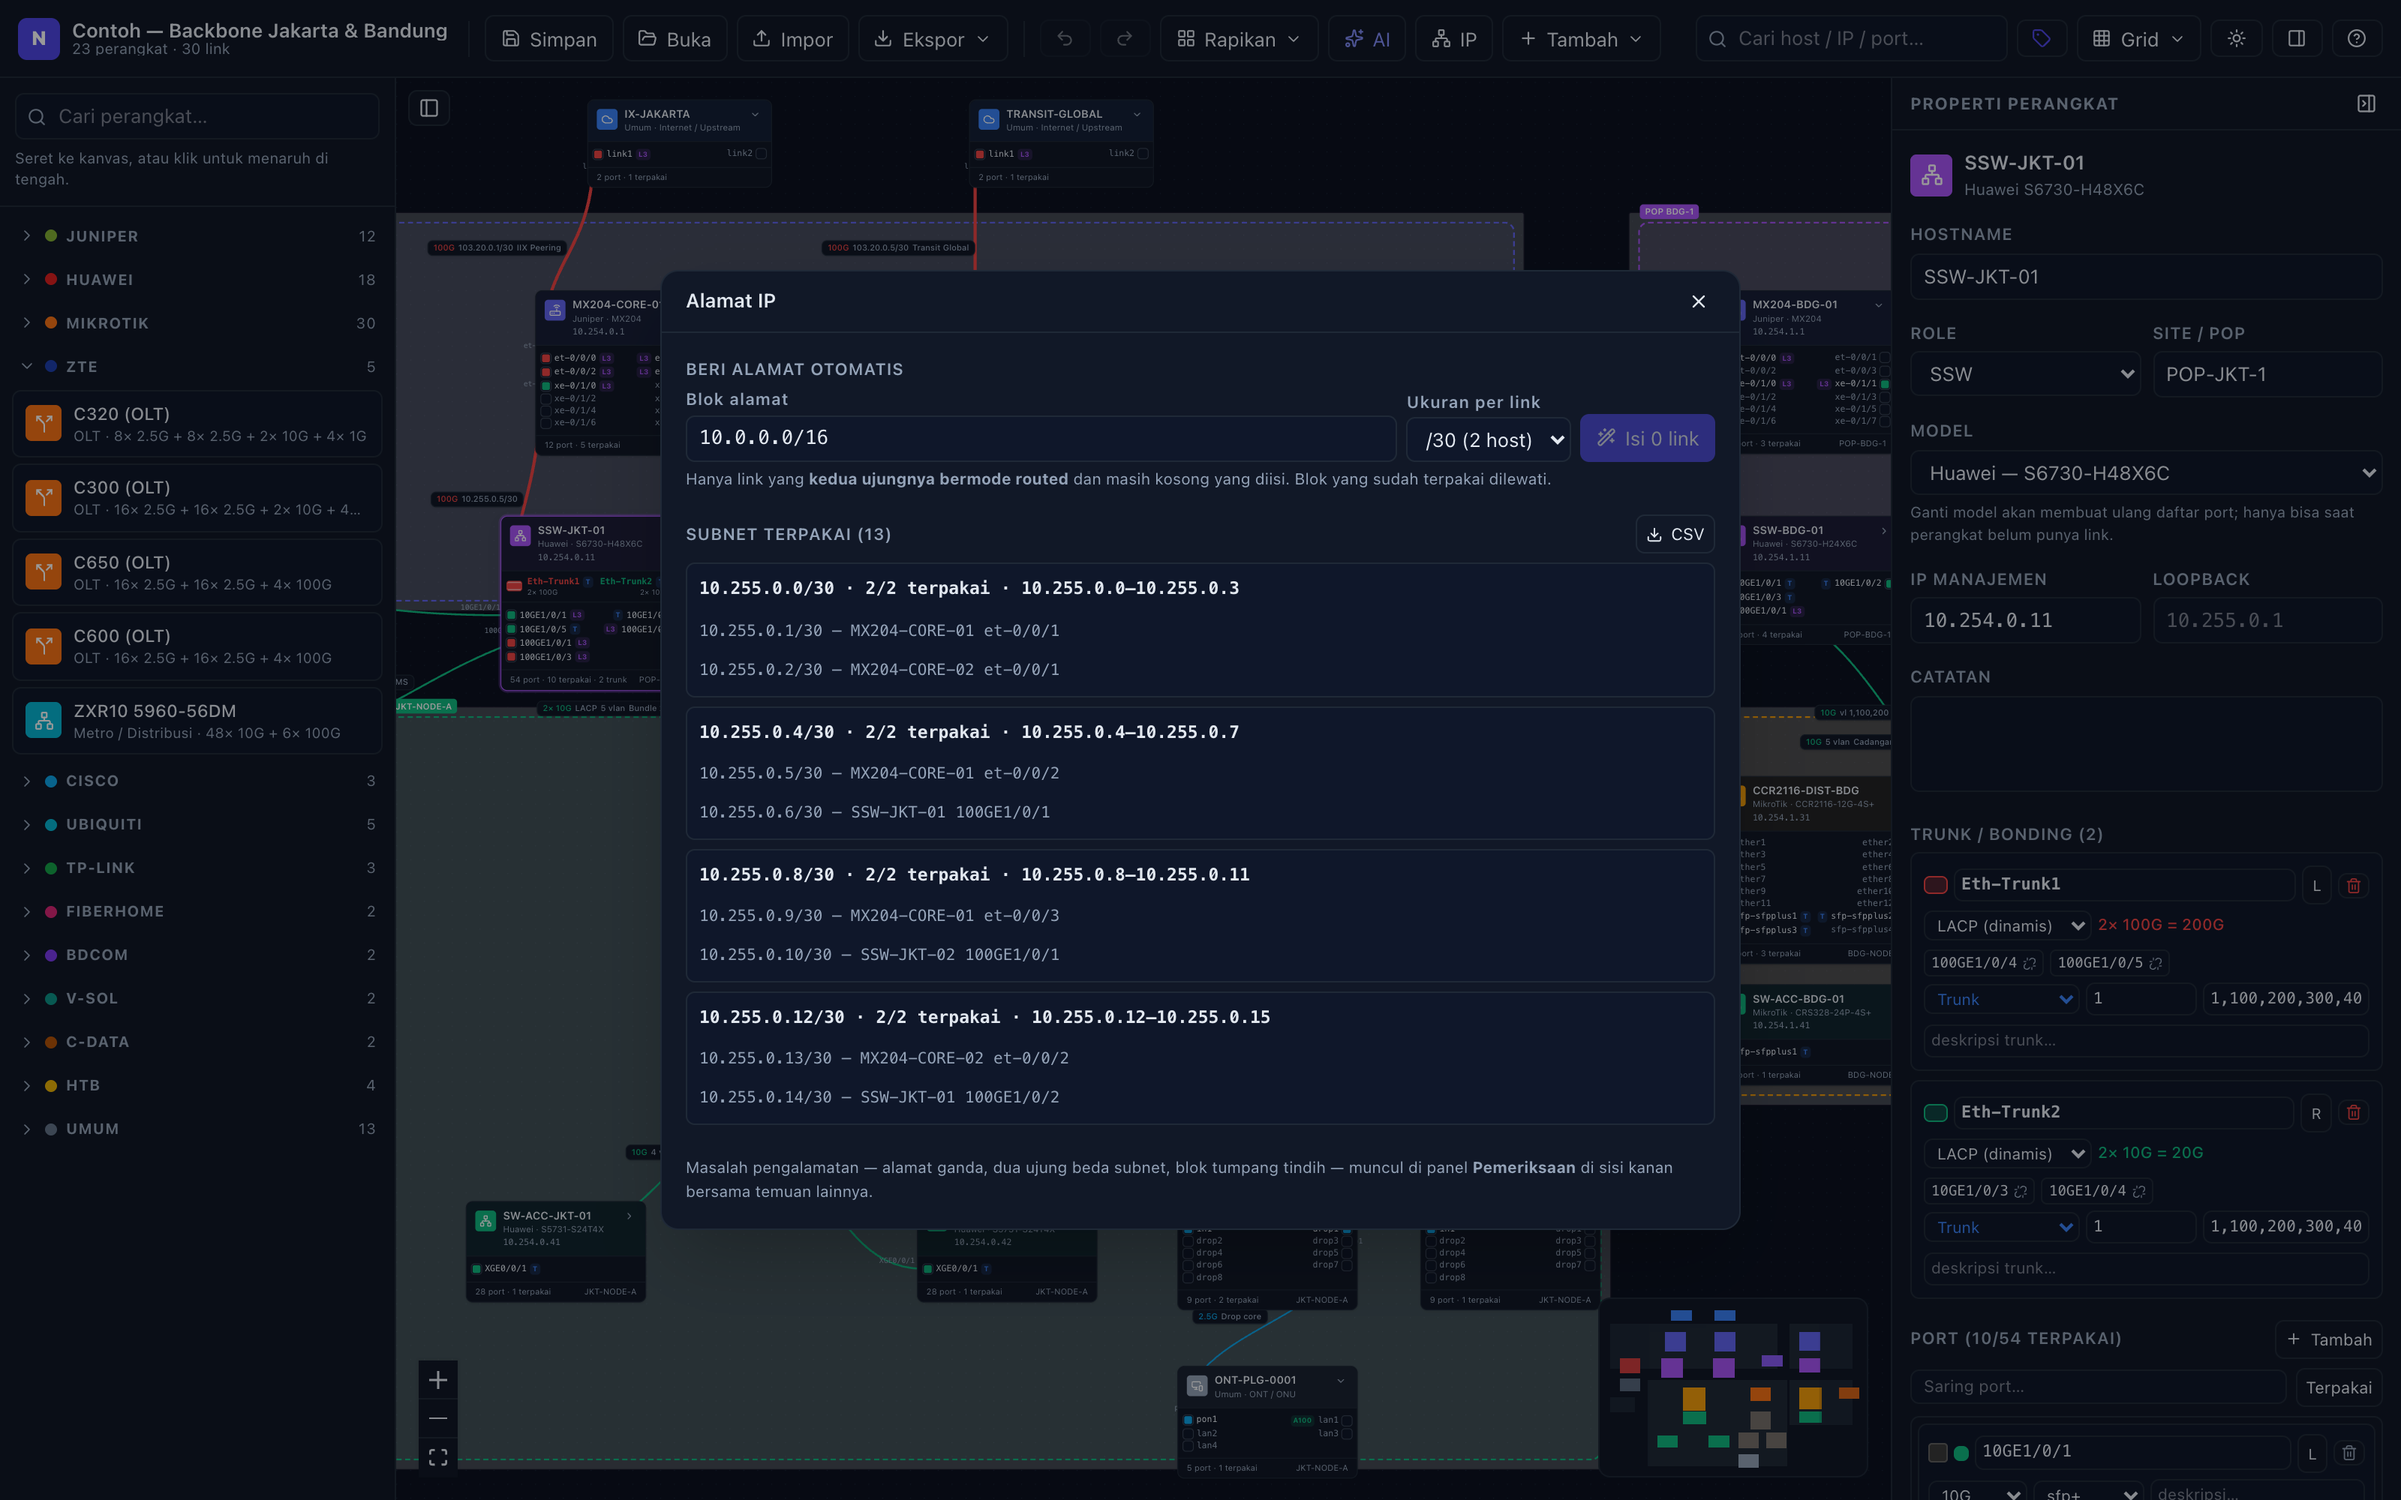
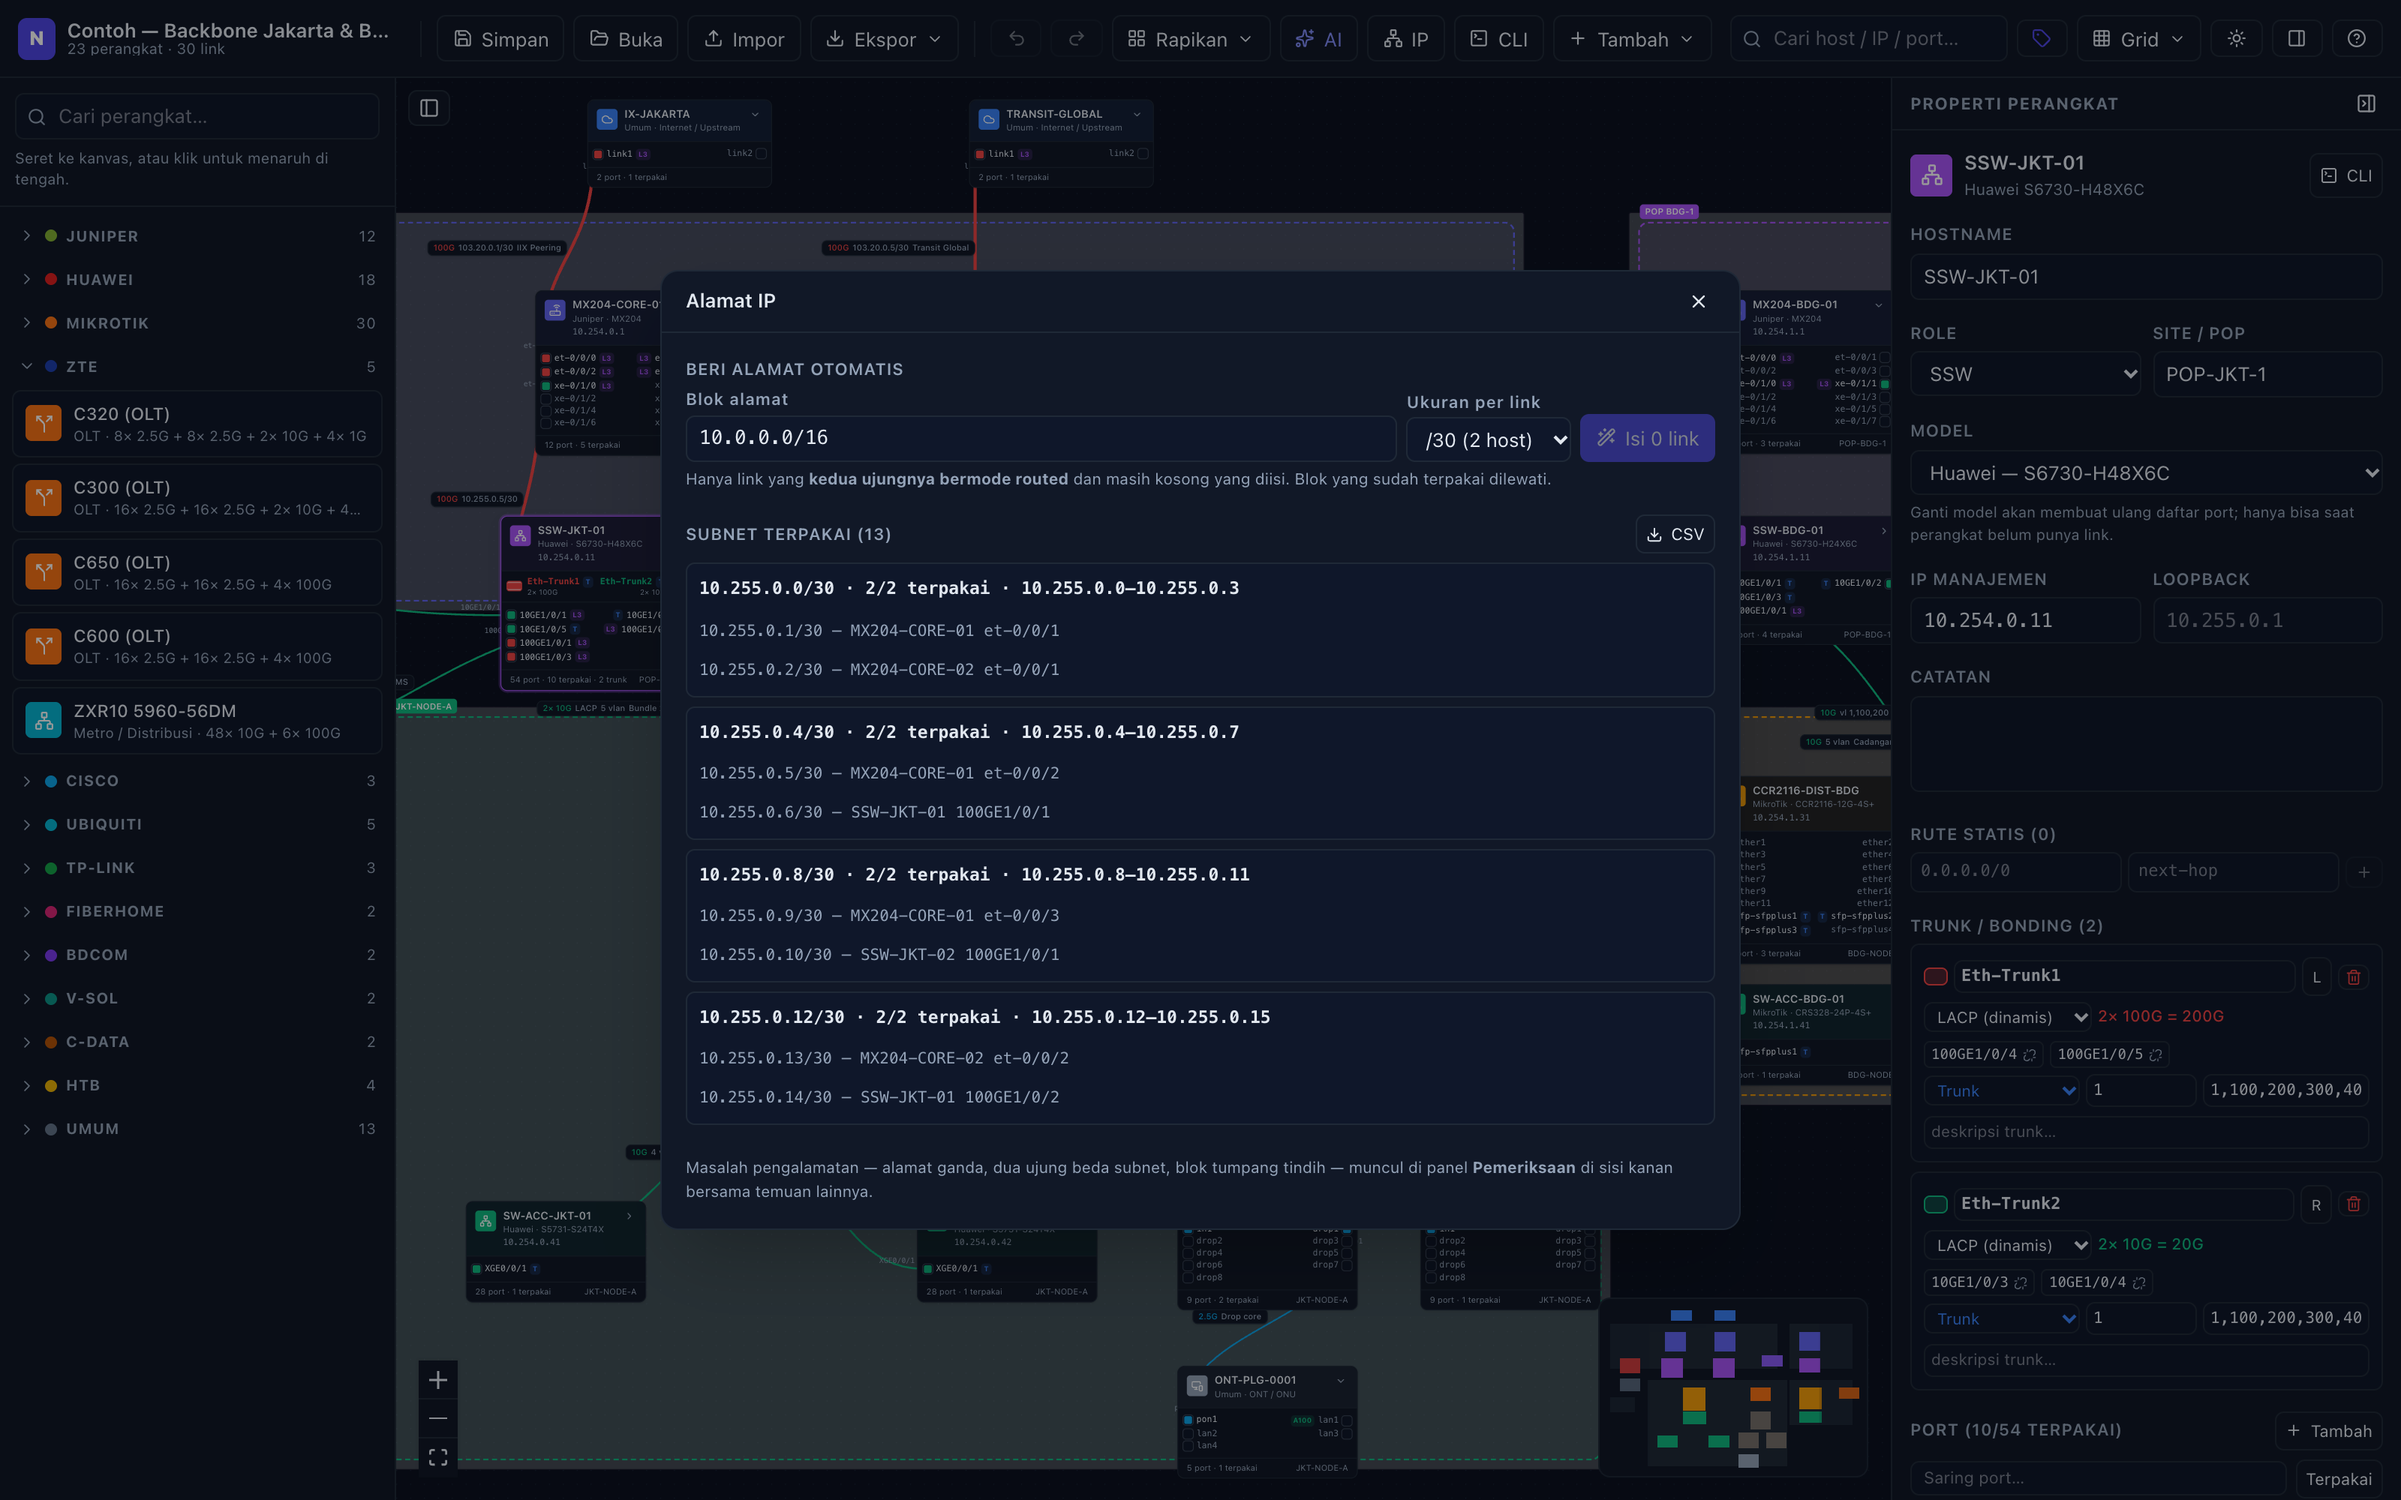
README: tangkapan layar dan panduan CLI, plus yang terlewat
Bagian CLI kini punya gambar sesi sungguhan (07-cli): rute statis dipasang
lewat VRP di SSW-JKT-01 dan Junos di MX204-BDG-01, lalu tracert dan ping
lintas dua hop berhasil. Ditambah panduan "Coba sendiri" empat langkah di
topologi contoh — ping tetangga, gagal karena tidak ada rute, rute pergi,
lalu rute pulang — yang perintah dan hasilnya sudah dijalankan apa adanya.

Yang sebelumnya belum tercatat: badge CI dan penjelasan bahwa lint, test,
dan build berjalan di setiap push; Port-channel untuk Cisco di tabel
penamaan bonding; tombol shutdown di tabel port; langkah membuka CLI di
"Cara pakai"; dan status shutdown di ekspor CSV.

Gambar 01–05 dibuat ulang karena toolbar dan panel kanan kini punya tombol
CLI dan bagian rute statis. Gambar asisten AI dibiarkan: skrip menjalankan
AI sungguhan, yang mengirim topologi ke endpoint di .env. Untuk itu skrip
mendapat opsi NETTOPO_SKIP_AI=1.

diff --git a/README.md b/README.md
@@ -1,5 +1,6 @@
 # NetTopo — Editor Topologi Jaringan
 
+[![CI](https://github.com/Masamune21-dev/nettopo/actions/workflows/ci.yml/badge.svg)](https://github.com/Masamune21-dev/nettopo/actions/workflows/ci.yml)
 [![Lisensi: MIT](https://img.shields.io/badge/Lisensi-MIT-blue.svg)](LICENSE)
 
 Aplikasi web untuk menggambar topologi jaringan sampai level **port-ke-port**,
@@ -7,7 +8,7 @@ dengan katalog perangkat yang sesuai jaringan ISP di Indonesia: **Juniper MX,
 switch & SSW Huawei, MikroTik CRS dan CCR**.
 
 Mendukung **link aggregation / bonding** — Eth-Trunk (Huawei), ae (Juniper),
-bond (MikroTik) — lengkap dengan daftar port anggotanya, serta **VLAN dan
+bond (MikroTik), Port-channel (Cisco) — lengkap dengan daftar port anggotanya, serta **VLAN dan
 link-type per interface** (access / trunk / hybrid / routed) seperti di
 perangkat aslinya.
 
@@ -50,6 +51,10 @@ memindahkannya antar komputer.
 | `npm test` | Menjalankan unit test |
 | `npm run test:watch` | Unit test mode watch |
 | `npm run lint` | Pemeriksaan gaya kode |
+
+Ketiga pemeriksaan — `npm run lint`, `npm test`, dan `npm run build` — juga
+dijalankan GitHub Actions di setiap push ke `main` dan setiap pull request
+([`.github/workflows/ci.yml`](.github/workflows/ci.yml)).
 
 Hasil `npm run build` berupa berkas statis di `dist/`, jadi bisa ditaruh di
 web server mana pun (nginx, Apache, GitHub Pages) tanpa Node.js di sisi server.
@@ -110,7 +115,9 @@ ada aturan pemeriksaan baru yang membuatnya gagal, itu ketahuan langsung.
 7. **Ekspor** ke PNG/SVG untuk laporan, JSON untuk cadangan, atau CSV untuk
    rekap. Ekspor CSV menghasilkan tiga berkas: `-perangkat.csv`, `-link.csv`,
    dan `-interface.csv` — yang terakhir berisi link-type, PVID, VLAN
-   tagged/untagged, dan IP setiap interface.
+   tagged/untagged, IP, dan status shutdown setiap interface.
+8. **Klik ganda perangkat** untuk membuka CLI-nya, lalu atur dan uji jaringan
+   dengan perintah aslinya — lihat [CLI perangkat](#cli-perangkat-seperti-packet-tracer).
 
 ### Menggeser kabel
 
@@ -201,6 +208,9 @@ sendiri di panel kanan:
   interface-nya — jadi tidak perlu mengetik dua kali.
 - **Isi massal:** centang banyak port sekaligus, klik **VLAN**, isi sekali,
   lalu **Terapkan** — praktis untuk switch 48 port.
+- Tombol **⏻** di tiap baris port mematikannya (`shutdown`). Port yang mati
+  dicoret merah di node, dan kabelnya digambar putus-putus berlabel
+  **shutdown** — sama seperti bila dimatikan lewat CLI.
 - Pemeriksaan otomatis menandai: daftar VLAN yang tidak sah, port access yang
   VLAN-nya kosong, PVID di luar daftar tagged, link-type berbeda di dua ujung
   link, dan VLAN yang hanya ada di satu sisi.
@@ -216,6 +226,7 @@ sendiri di panel kanan:
    | Huawei (VRP) | `Eth-Trunk1`, `Eth-Trunk2`, … |
    | Juniper (Junos) | `ae0`, `ae1`, … |
    | MikroTik (RouterOS) | `bond1`, `bond2`, … |
+   | Cisco (IOS) | `Port-channel1`, `Port-channel2`, … |
    | Lainnya | `lag1`, `lag2`, … |
 
 3. Di kanvas, trunk muncul sebagai **satu interface logis** (kotak lebar
@@ -251,7 +262,10 @@ seleksi kotak, drag tengah/kanan untuk menggeser.
 Setiap perangkat aktif punya konsol CLI sendiri. **Klik ganda perangkat** di
 kanvas (atau klik kanan → *Buka CLI*, atau tombol **CLI** di toolbar dan panel
 kanan), dan konsolnya terbuka di bawah kanvas — satu tab per perangkat,
-seperti jendela CLI di Cisco Packet Tracer.
+seperti jendela CLI di Cisco Packet Tracer. Tinggi konsol bisa diatur dengan
+menyeret tepi atasnya.
+
+![Konsol CLI: rute statis dipasang lewat VRP dan Junos, lalu tracert dan ping lintas dua hop](docs/img/07-cli.png)
 
 Dialeknya mengikuti OS perangkat:
 
@@ -275,6 +289,41 @@ Error: The interface is a Layer 2 port and cannot be assigned an IP address.
 [SW-ACC-JKT-01-GigabitEthernet0/0/10]undo portswitch
 [SW-ACC-JKT-01-GigabitEthernet0/0/10]ip address 10.9.0.1 30
 ```
+
+### Coba sendiri di topologi contoh
+
+Ping lintas dua hop — dari SSW-JKT-01 ke MX204-BDG-01 lewat MX204-CORE-01 —
+memperlihatkan cara kerja simulasinya dalam empat langkah:
+
+1. Buka CLI **SSW-JKT-01** dan jalankan `ping 10.255.0.5`. Itu tetangga satu
+   /30 (MX204-CORE-01), jadi langsung dijawab.
+2. `ping 10.255.2.2` gagal: SSW tidak punya rute ke subnet Jakarta–Bandung.
+   Tambahkan rute statisnya:
+
+   ```text
+   <SSW-JKT-01>system-view
+   [SSW-JKT-01]ip route-static 10.255.2.0 30 10.255.0.5
+   [SSW-JKT-01]return
+   ```
+
+3. Ping masih gagal — paketnya sampai, tapi **MX204-BDG-01 tidak tahu jalan
+   pulang**. Buka CLI-nya dan pasang rute balik (Junos baru berlaku setelah
+   `commit`):
+
+   ```text
+   admin@MX204-BDG-01> configure
+   admin@MX204-BDG-01# set routing-options static route 10.255.0.4/30 next-hop 10.255.2.1
+   admin@MX204-BDG-01# commit and-quit
+   ```
+
+4. Kembali ke SSW-JKT-01: `ping 10.255.2.2` sekarang dijawab, dan
+   `tracert 10.255.2.2` menunjukkan dua hop — `10.255.0.5` lalu `10.255.2.2`.
+   Rute statis tadi juga muncul di panel kanan kedua perangkat.
+
+Coba juga `int 100GE1/0/1` → `shutdown` di SSW-JKT-01: kabelnya ke
+MX204-CORE-01 langsung tergambar putus, dan ping ke `10.255.0.5` gagal dengan
+penjelasan interface mana yang mati. `Cmd/Ctrl + Z` di kanvas
+mengembalikannya.
 
 ### CLI dan kanvas memakai data yang sama
 
@@ -588,6 +637,14 @@ node scripts/screenshots.mjs
 Skrip memakai Chrome yang sudah terpasang di sistem, jadi tidak perlu mengunduh
 browser terpisah. Playwright sengaja tidak dijadikan dependensi tetap karena
 hanya dibutuhkan saat memperbarui dokumentasi.
+
+Gambar asisten AI dibuat dengan menjalankan AI sungguhan, sehingga topologi
+contoh terkirim ke endpoint di `.env`. Untuk memperbarui gambar lain saja
+tanpa memanggil AI, gambar lama dibiarkan apa adanya:
+
+```bash
+NETTOPO_SKIP_AI=1 node scripts/screenshots.mjs
+```
 
 ---
 
